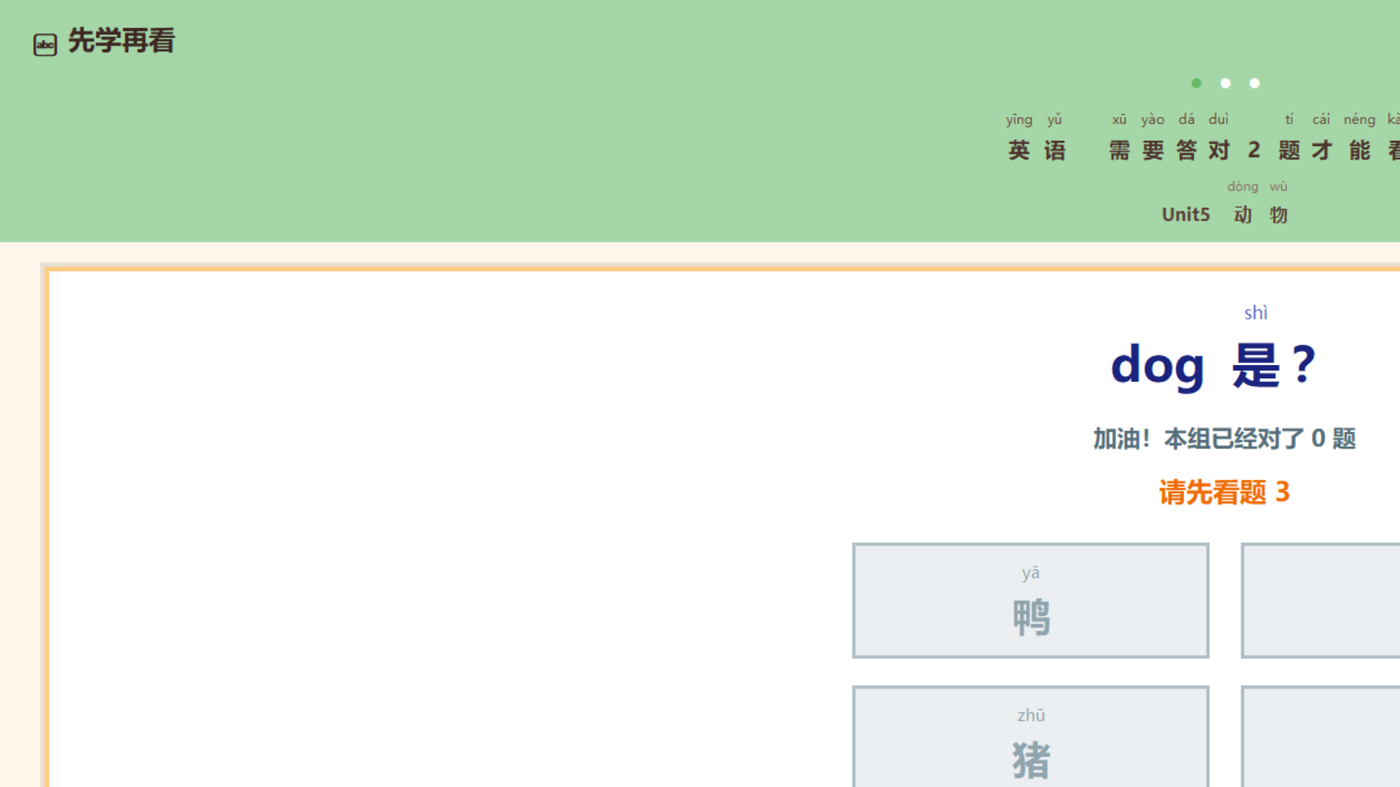
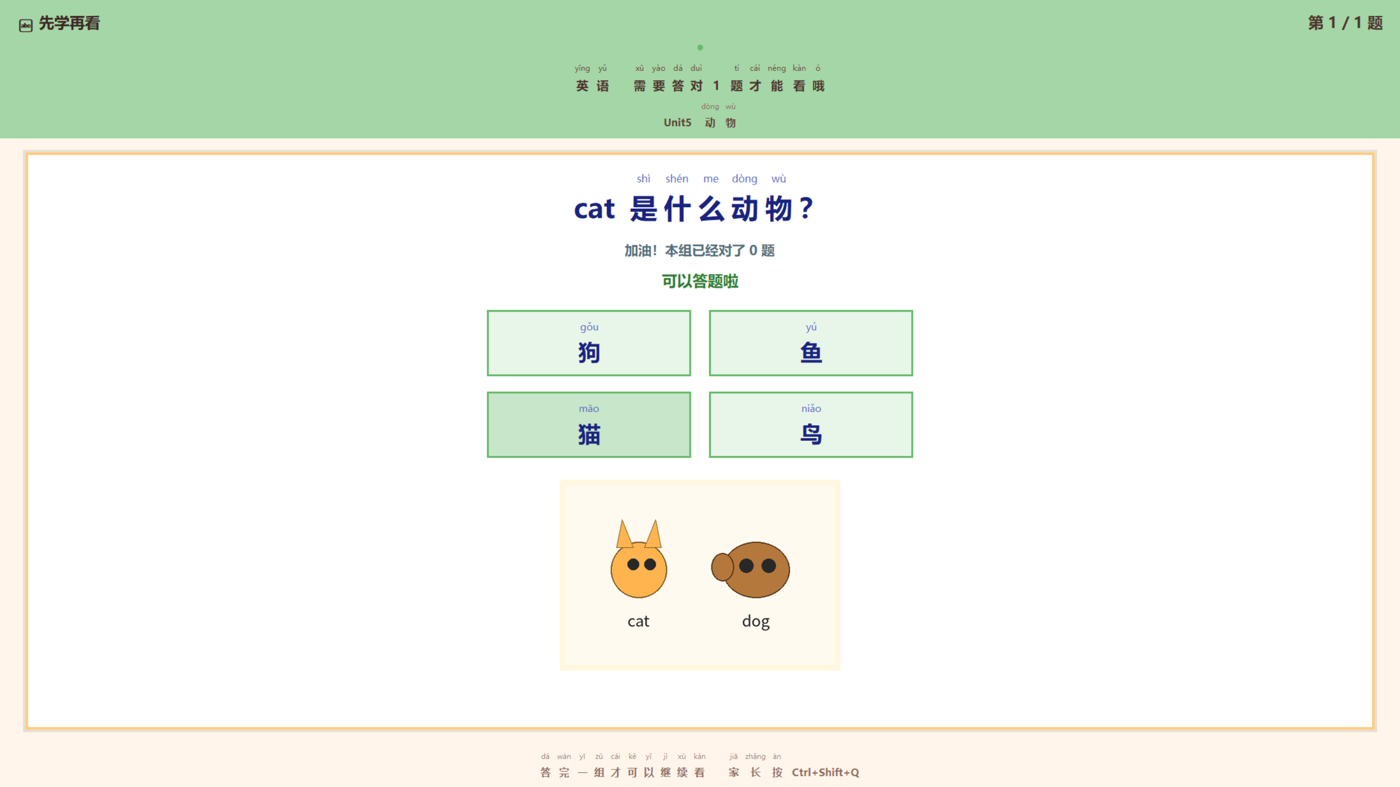
docs: replace README screenshots with complete illustrated quizzes

diff --git a/scripts/capture_readme_shots.py b/scripts/capture_readme_shots.py
@@ -1,0 +1,115 @@
+# -*- coding: utf-8 -*-
+"""Capture clean README screenshots (one illustrated question per subprocess)."""
+from __future__ import annotations
+
+import json
+import subprocess
+import sys
+import time
+from pathlib import Path
+
+ROOT = Path(__file__).resolve().parents[1]
+
+WANT = [
+    ("quiz-math.png", 1),       # 3+2 illustration
+    ("quiz-animals.png", 54),   # cat / en_animals
+    ("quiz-chinese.png", 25),   # 目 / yuwen_mu (simple illustrated)
+]
+
+
+def capture_child(out_dir: str, filename: str, qid: int) -> None:
+    """Child entry: show one quiz and save PNG."""
+    sys.path.insert(0, str(ROOT))
+    import tkinter as tk
+    from PIL import ImageGrab
+    from studyonpc import bank as bank_mod
+    from studyonpc import quiz_ui
+    from studyonpc import rules as rules_mod
+
+    data = json.loads((ROOT / "data" / "banks" / "grade1-shenzhen.json").read_text(encoding="utf-8"))
+    q = next(dict(x) for x in data["questions"] if int(x["id"]) == int(qid))
+    print(f"child capture {filename} id={qid} image={q.get('image')} q={q.get('q')}", flush=True)
+
+    root = tk.Tk()
+    root.withdraw()
+    cfg = rules_mod.RulesConfig.from_dict(
+        {
+            "questions_per_set": 1,
+            "pass_ratio": 1.0,
+            "unlock_minutes_per_set": 10,
+            "answer_delay_seconds": 0.3,
+        }
+    )
+    state = {
+        "balance_minutes": 0,
+        "daily_used_minutes": 0,
+        "pending_extra": 0,
+        "wrong_streak": 0,
+        "recent_ids": [],
+    }
+    bank_mod.pick_set = lambda questions, n, recent: [q]  # type: ignore
+
+    runner = quiz_ui.QuizSetRunner(
+        root=root,
+        questions=[q],
+        state=state,
+        rules=cfg,
+        parent_pin="changeme",
+        on_finished=lambda *_: None,
+        on_parent_quit=lambda: None,
+    )
+    runner.start()
+
+    # Paint + wait for answer gate ("可以答题啦")
+    end = time.time() + 2.5
+    while time.time() < end:
+        root.update()
+        time.sleep(0.05)
+
+    shot = ImageGrab.grab()
+    w, h = shot.size
+    if w / max(h, 1) > 1.8:
+        shot = shot.crop((int(w * 0.12), 0, int(w * 0.88), h))
+    max_w = 1400
+    if shot.width > max_w:
+        ratio = max_w / shot.width
+        shot = shot.resize((max_w, int(shot.height * ratio)))
+    out = Path(out_dir)
+    out.mkdir(parents=True, exist_ok=True)
+    path = out / filename
+    shot.convert("RGB").save(path, format="PNG", optimize=True)
+    print(f"saved {path} bytes={path.stat().st_size} dim={shot.size}", flush=True)
+
+    try:
+        if runner._win is not None:
+            runner._win.destroy()
+    except Exception:
+        pass
+    try:
+        root.destroy()
+    except Exception:
+        pass
+
+
+def main() -> None:
+    if len(sys.argv) >= 4 and sys.argv[1] == "--one":
+        capture_child(sys.argv[2], sys.argv[3], int(sys.argv[4]))
+        return
+
+    out_dir = sys.argv[1] if len(sys.argv) > 1 else str(ROOT / "docs" / "screenshots")
+    py = sys.executable
+    script = str(Path(__file__).resolve())
+    for name, qid in WANT:
+        r = subprocess.run(
+            [py, script, "--one", out_dir, name, str(qid)],
+            cwd=str(ROOT),
+            check=False,
+        )
+        if r.returncode != 0:
+            raise SystemExit(f"capture failed for {name}: {r.returncode}")
+        time.sleep(0.5)
+    print("ALL_OK")
+
+
+if __name__ == "__main__":
+    main()

diff --git a/README.md b/README.md
@@ -8,19 +8,19 @@
 
 ## 界面预览
 
-全屏答题界面（带拼音标注），答对够题数才解锁观看时长：
+全屏答题界面（带拼音标注 + 插图），答对够题数才解锁观看时长：
 
-![英语礼貌用语答题](docs/screenshots/quiz-english.png)
+![数学加减插图题](docs/screenshots/quiz-math.png)
 
-*英语 · 礼貌用语*
+*数学 · 5 以内加减（插图题）*
 
-![英语动物单元答题](docs/screenshots/quiz-animals.png)
+![英语动物单元插图题](docs/screenshots/quiz-animals.png)
 
-*英语 · Unit5 动物*
+*英语 · Unit5 动物（插图题）*
 
-![语文拼音拼读答题](docs/screenshots/quiz-pinyin.png)
+![语文识字插图题](docs/screenshots/quiz-chinese.png)
 
-*语文 · 拼音拼读*
+*语文 · 口耳目手足（插图题）*
 
 
 ## Windows 可执行文件（推荐）
